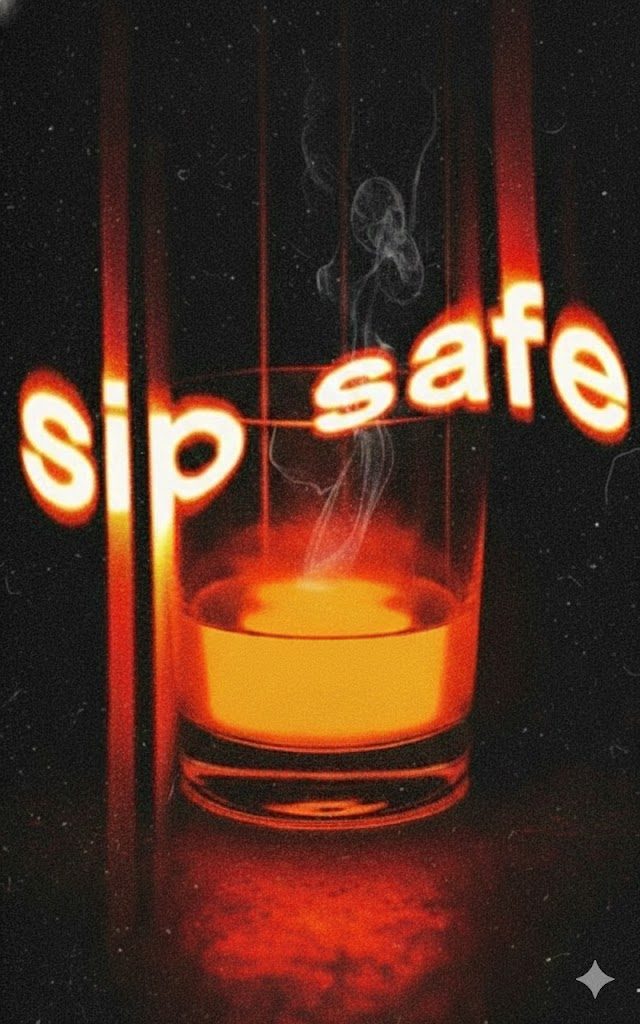
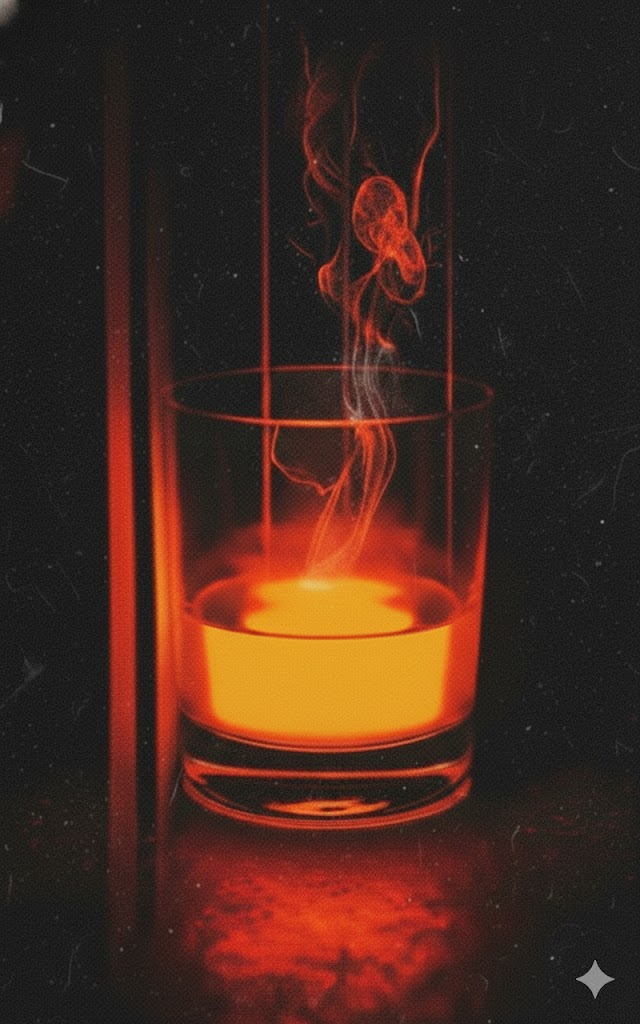
feat: index changes

diff --git a/app/(tabs)/index.tsx b/app/(tabs)/index.tsx
@@ -18,12 +18,10 @@ import {
 import { BebasNeue_400Regular, useFonts } from '@expo-google-fonts/bebas-neue';
 import { SpecialElite_400Regular } from '@expo-google-fonts/special-elite';
 
-const FEATURES = [
-  { title: "AI Scanner", desc: "Identify drinks", route: "/scanner" },
-  { title: "Dashboard", desc: "Track trends", route: "/stats" },
-  { title: "Alerts", desc: "Notify crew", route: "/alerts" },
-  { title: "Voice AI", desc: "Safety guidance", route: "/voice" },
-];
+const THEME_COLOR = '#FF4000'; 
+const WIDMARK_R = { male: 0.73, female: 0.66 };
+const USER_WEIGHT_LBS = 130;
+const USER_SEX = "female";
 
 const DRINK_TYPES = [
   { label: "BEER", emoji: "🍺", standardDrinks: 1.0 },
@@ -33,10 +31,6 @@ const DRINK_TYPES = [
   { label: "SELTZER", emoji: "🫧", standardDrinks: 0.8 },
   { label: "CIDER", emoji: "🍎", standardDrinks: 1.0 },
 ];
-
-const WIDMARK_R = { male: 0.73, female: 0.66 };
-const USER_WEIGHT_LBS = 130;
-const USER_SEX = "female";
 
 interface DrinkEntry {
   id: string;
@@ -66,15 +60,18 @@ function calcBAC(drinks: DrinkEntry[]): number {
 
 function HomePageContent({ onOpenTracker }: { onOpenTracker: () => void }) {
   const router = useRouter();
-  const { bac, drinks } = useContext(DrinkContext);
+  const { bac } = useContext(DrinkContext);
   const bacPercentage = Math.min((bac / 0.15) * 100, 100);
 
   return (
     <ImageBackground
-      source={require('@/assets/images/background.png')}
-      style={styles.container}
+      source={require('@/assets/images/sipsafe.jpg')}
+      style={styles.fullScreenBg}
       resizeMode="cover"
     >
+      {/* Dark overlay to make text readable over the photo */}
+      <View style={styles.darkOverlay} />
+
       {/* 1. TOP NAV PILL */}
       <View style={styles.nav}>
         <TouchableOpacity style={styles.inputPill} onPress={onOpenTracker}>
@@ -87,7 +84,8 @@ function HomePageContent({ onOpenTracker }: { onOpenTracker: () => void }) {
       </View>
 
       <ScrollView contentContainerStyle={styles.body} showsVerticalScrollIndicator={false}>
-        {/* 2. SIPSAFE LOGO (above BAC) */}
+        
+        {/* 2. LOGO OVERLAY - Pushing content down */}
         <View style={styles.logoContainer}>
           <Image
             source={require('@/assets/images/logo-sipsafe.png')}
@@ -96,6 +94,7 @@ function HomePageContent({ onOpenTracker }: { onOpenTracker: () => void }) {
           />
         </View>
 
+        {/* 3. BAC DISPLAY - Now much lower */}
         <View style={styles.bacContainer}>
           <View style={styles.progressBarBackground}>
             <View style={[styles.progressBarFill, { width: `${bacPercentage}%` }]} />
@@ -104,15 +103,16 @@ function HomePageContent({ onOpenTracker }: { onOpenTracker: () => void }) {
           <Text style={styles.bacLabel}>EST. BAC</Text>
         </View>
 
+        {/* 4. CARDS */}
         <View style={styles.actionButtonsWrapper}>
           <View style={styles.statsRow}>
             <View style={styles.statCard}>
               <Text style={styles.cardTitle}>Safe Streak</Text>
               <Text style={styles.cardValue}>14 DAYS</Text>
             </View>
-            <View style={[styles.statCard, { backgroundColor: 'rgba(26,26,26,0.85)' }]}>
-              <Text style={styles.cardTitle}>Status</Text>
-              <Text style={styles.cardValue}>{drinks.length} Drinks</Text>
+            <View style={[styles.statCard, { backgroundColor: 'rgba(26,26,26,0.7)' }]}>
+              <Text style={styles.cardTitle}>Alert</Text>
+              <Text style={styles.cardValue}>Text a friend</Text>
             </View>
           </View>
 
@@ -135,19 +135,6 @@ function HomePageContent({ onOpenTracker }: { onOpenTracker: () => void }) {
             <Text style={styles.receiptButtonText}>VIEW NIGHT'S RECEIPT</Text>
             <Text style={styles.receiptButtonArrow}>→</Text>
           </TouchableOpacity>
-
-          <View style={styles.featureGrid}>
-            {FEATURES.map((f) => (
-              <TouchableOpacity
-                key={f.title}
-                style={styles.featureCard}
-                onPress={() => router.push(f.route as any)}
-              >
-                <Text style={styles.featureTitle}>{f.title}</Text>
-                <Text style={styles.featureDesc}>{f.desc}</Text>
-              </TouchableOpacity>
-            ))}
-          </View>
         </View>
       </ScrollView>
     </ImageBackground>
@@ -195,7 +182,7 @@ export default function App() {
 
   return (
     <DrinkContext.Provider value={{ bac, drinks, addDrink }}>
-      <View style={{ flex: 1 }}>
+      <View style={{ flex: 1, backgroundColor: '#000' }}>
         <StatusBar barStyle="light-content" />
         <HomePageContent onOpenTracker={() => setOpen(true)} />
 
@@ -224,36 +211,108 @@ export default function App() {
 }
 
 const styles = StyleSheet.create({
-  container: { flex: 1, backgroundColor: '#000' },
-  nav: { flexDirection: 'row', paddingHorizontal: 20, paddingTop: 60, alignItems: 'center', justifyContent: 'space-between' },
-  inputPill: { flex: 0.9, backgroundColor: 'rgba(34,34,34,0.9)', flexDirection: 'row', alignItems: 'center', padding: 12, borderRadius: 50, borderWidth: 1, borderColor: '#444' },
+  fullScreenBg: { flex: 1 },
+  darkOverlay: { 
+    ...StyleSheet.absoluteFillObject, 
+    backgroundColor: 'rgba(0,0,0,0.65)' // Adjust this to make sipsafe.jpg more or less visible
+  },
+  nav: { 
+    flexDirection: 'row', 
+    paddingHorizontal: 20, 
+    paddingTop: 60, 
+    alignItems: 'center', 
+    justifyContent: 'space-between', 
+    zIndex: 10 
+  },
+  inputPill: { 
+    flex: 0.9, 
+    backgroundColor: 'rgba(34,34,34,0.8)', 
+    flexDirection: 'row', 
+    alignItems: 'center', 
+    padding: 12, 
+    borderRadius: 50, 
+    borderWidth: 1, 
+    borderColor: 'rgba(255,255,255,0.1)' 
+  },
   circleIcon: { width: 20, height: 20, borderRadius: 10, backgroundColor: '#555', marginRight: 10 },
-  inputPillText: { color: '#999', fontSize: 16, fontFamily: 'BebasNeue', letterSpacing: 1 },
-  navBtn: { color: '#666', fontSize: 14, fontFamily: 'BebasNeue' },
+  inputPillText: { color: '#bbb', fontSize: 16, fontFamily: 'BebasNeue', letterSpacing: 1 },
+  navBtn: { color: '#aaa', fontSize: 14, fontFamily: 'BebasNeue' },
   body: { paddingHorizontal: 20, paddingBottom: 120 },
 
-  logoContainer: { marginVertical: 24, alignItems: 'center' },
-  logoImage: { width: 220, height: 100 },
+  logoContainer: { 
+    marginTop: 20,
+    marginBottom: 100,
+    marginVertical: 40, 
+    alignItems: 'center',
+    justifyContent: 'center',
+  },
+  logoImage: { 
+    width: 240, 
+    height: 110,
+  },
 
-  bacContainer: { alignItems: 'center', marginBottom: 25 },
-  progressBarBackground: { width: '100%', height: 12, backgroundColor: '#222', borderRadius: 6, overflow: 'hidden', marginBottom: 10 },
-  progressBarFill: { height: '100%', backgroundColor: '#ff4000' },
-  bacValue: { color: '#fff', fontSize: 65, fontFamily: 'BebasNeue', letterSpacing: -2, lineHeight: 80, textShadowColor: 'rgba(255,64,0,0.9)', textShadowOffset: { width: 0, height: 0 }, textShadowRadius: 20 },
-  bacLabel: { color: '#fff', fontSize: 22, fontFamily: 'BebasNeue', marginTop: -10, opacity: 0.8, letterSpacing: 6 },
+  bacContainer: { 
+      alignItems: 'center', 
+      marginBottom: 40,
+      paddingTop: 200,        // Extra internal spacing to sink the number lower
+    },  
+    progressBarBackground: { 
+    width: '100%', 
+    height: 12, 
+    backgroundColor: 'rgba(255,255,255,0.1)', 
+    borderRadius: 6, 
+    overflow: 'hidden', 
+    marginBottom: 10 
+  },
+  progressBarFill: { height: '100%', backgroundColor: THEME_COLOR },
+  bacValue: { 
+    color: '#fff', 
+    fontSize: 70, 
+    fontFamily: 'BebasNeue', 
+    letterSpacing: -2, 
+    lineHeight: 80, 
+    textShadowColor: 'rgba(255,64,0,0.8)', 
+    textShadowOffset: { width: 0, height: 0 }, 
+    textShadowRadius: 15 
+  },
+  bacLabel: { 
+    color: '#fff', 
+    fontSize: 22, 
+    fontFamily: 'BebasNeue', 
+    marginTop: -5, 
+    opacity: 0.9, 
+    letterSpacing: 6 
+  },
 
-  actionButtonsWrapper: { marginTop: 0 },
+  actionButtonsWrapper: { marginTop: 10 },
   statsRow: { flexDirection: 'row', justifyContent: 'space-between', marginBottom: 15 },
-  statCard: { backgroundColor: 'rgba(17,17,17,0.85)', width: '48%', padding: 18, borderRadius: 20, height: 110, justifyContent: 'center' },
+  statCard: { 
+    backgroundColor: 'rgba(20,20,20,0.75)', 
+    width: '48%', 
+    padding: 18, 
+    borderRadius: 20, 
+    height: 110, 
+    justifyContent: 'center',
+    borderWidth: 1,
+    borderColor: 'rgba(255,255,255,0.05)'
+  },
   cardTitle: { color: '#fff', fontSize: 24, fontFamily: 'BebasNeue', marginBottom: 2, letterSpacing: 1 },
-  cardValue: { color: '#666', fontSize: 18, fontFamily: 'BebasNeue', letterSpacing: 1 },
+  cardValue: { color: '#999', fontSize: 18, fontFamily: 'BebasNeue', letterSpacing: 1 },
 
-  chartCard: { backgroundColor: 'rgba(17,17,17,0.85)', borderRadius: 25, padding: 20, marginBottom: 15 },
+  chartCard: { 
+    backgroundColor: 'rgba(20,20,20,0.75)', 
+    borderRadius: 25, 
+    padding: 20, 
+    marginBottom: 15,
+    borderWidth: 1,
+    borderColor: 'rgba(255,255,255,0.05)'
+  },
   chartContainer: { flexDirection: 'row', alignItems: 'flex-end', justifyContent: 'space-between', height: 80, paddingHorizontal: 5 },
   chartColumn: { alignItems: 'center', flex: 1 },
-  bar: { width: 14, backgroundColor: '#ff4000', borderRadius: 2 },
+  bar: { width: 14, backgroundColor: THEME_COLOR, borderRadius: 2 },
 
   receiptButton: {
-    backgroundColor: 'rgba(17,17,17,0.85)',
+    backgroundColor: 'rgba(20,20,20,0.8)',
     flexDirection: 'row',
     justifyContent: 'space-between',
     alignItems: 'center',
@@ -261,23 +320,51 @@ const styles = StyleSheet.create({
     borderRadius: 20,
     marginBottom: 15,
     borderWidth: 1,
-    borderColor: '#333',
+    borderColor: THEME_COLOR,
   },
-  receiptButtonText: { color: '#ff4000', fontSize: 22, fontFamily: 'BebasNeue', letterSpacing: 1 },
-  receiptButtonArrow: { color: '#ff4000', fontSize: 24 },
+  receiptButtonText: { color: THEME_COLOR, fontSize: 22, fontFamily: 'BebasNeue', letterSpacing: 1 },
+  receiptButtonArrow: { color: THEME_COLOR, fontSize: 24 },
 
-  featureGrid: { flexDirection: 'row', flexWrap: 'wrap', justifyContent: 'space-between' },
-  featureCard: { backgroundColor: 'rgba(17,17,17,0.85)', width: '48%', padding: 15, borderRadius: 20, marginBottom: 15 },
-  featureTitle: { color: '#fff', fontFamily: 'BebasNeue', fontSize: 18, marginTop: 5, letterSpacing: 1 },
-  featureDesc: { color: '#555', fontSize: 14, marginTop: 2, fontFamily: 'BebasNeue', letterSpacing: 0.5 },
-
-  fab: { position: 'absolute', bottom: 30, right: 20, backgroundColor: '#ff4000', paddingVertical: 10, paddingHorizontal: 15, borderRadius: 15, alignItems: 'center', elevation: 5 },
+  fab: { 
+    position: 'absolute', 
+    bottom: 30, 
+    right: 20, 
+    backgroundColor: THEME_COLOR, 
+    paddingVertical: 10, 
+    paddingHorizontal: 15, 
+    borderRadius: 15, 
+    alignItems: 'center', 
+    elevation: 8,
+    shadowColor: THEME_COLOR,
+    shadowOffset: { width: 0, height: 4 },
+    shadowOpacity: 0.4,
+    shadowRadius: 5
+  },
   fabText: { color: '#fff', fontSize: 10, fontFamily: 'BebasNeue' },
 
   modalOverlay: { flex: 1, backgroundColor: 'rgba(0,0,0,0.85)' },
-  modalSheet: { position: 'absolute', bottom: 0, width: '100%', backgroundColor: '#0E0B09', borderTopLeftRadius: 30, borderTopRightRadius: 30, padding: 25, borderTopWidth: 2, borderTopColor: '#ff4000' },
+  modalSheet: { 
+    position: 'absolute', 
+    bottom: 0, 
+    width: '100%', 
+    backgroundColor: '#0E0B09', 
+    borderTopLeftRadius: 30, 
+    borderTopRightRadius: 30, 
+    padding: 25, 
+    borderTopWidth: 2, 
+    borderTopColor: THEME_COLOR 
+  },
   modalTitle: { color: '#fff', fontFamily: 'BebasNeue', fontSize: 24, marginBottom: 20, textAlign: 'center', letterSpacing: 1 },
   drinkGrid: { flexDirection: 'row', flexWrap: 'wrap', justifyContent: 'space-between' },
-  drinkBtn: { width: '31%', backgroundColor: '#161210', padding: 15, borderRadius: 12, alignItems: 'center', marginBottom: 15, borderWidth: 1, borderColor: '#222' },
+  drinkBtn: { 
+    width: '31%', 
+    backgroundColor: '#161210', 
+    padding: 15, 
+    borderRadius: 12, 
+    alignItems: 'center', 
+    marginBottom: 15, 
+    borderWidth: 1, 
+    borderColor: '#222' 
+  },
   drinkBtnText: { color: '#fff', fontSize: 11, fontFamily: 'BebasNeue', marginTop: 8, letterSpacing: 1 },
 });
